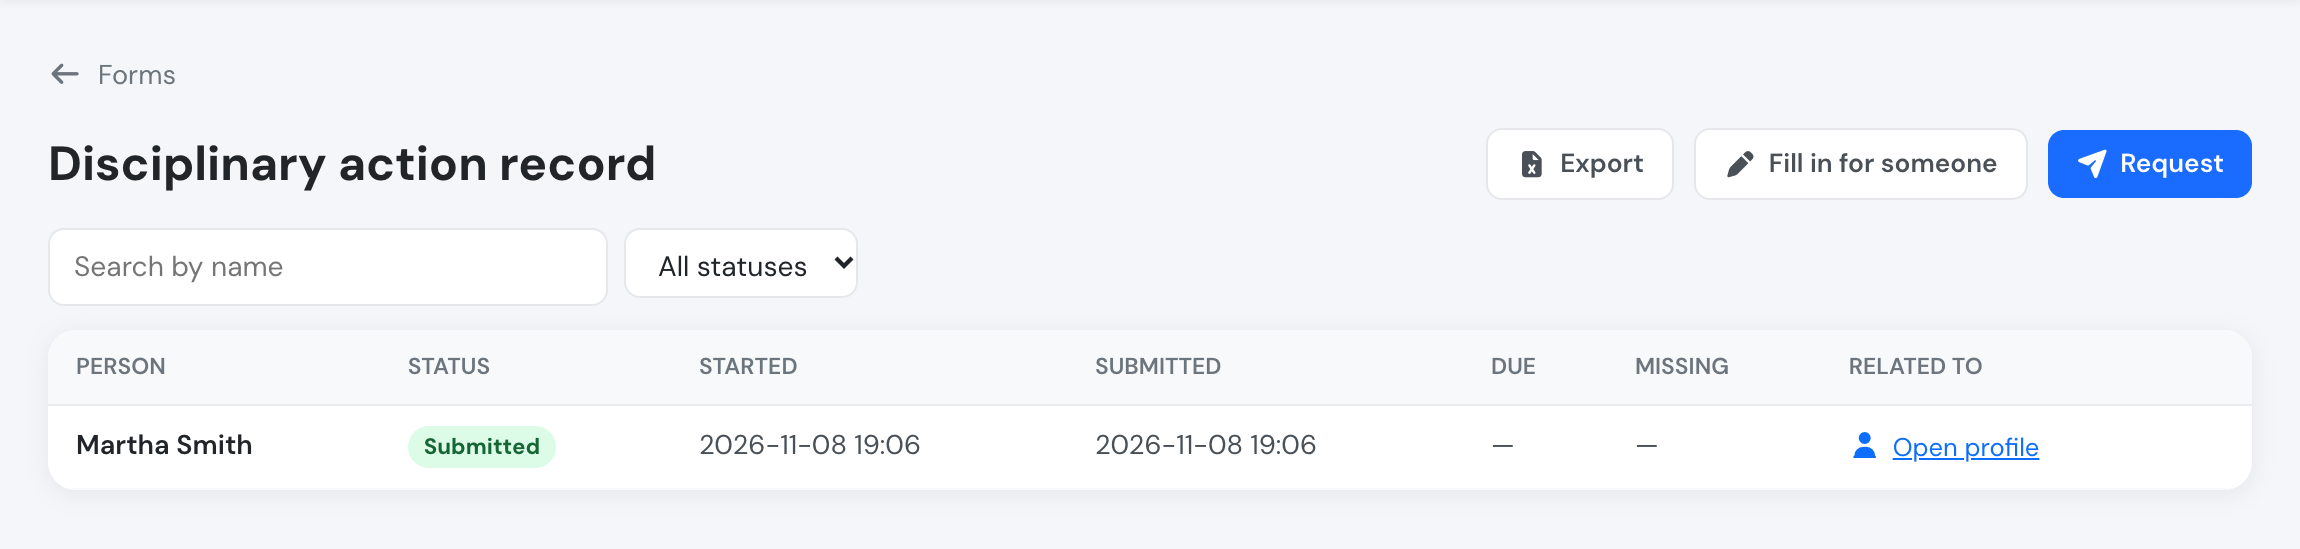
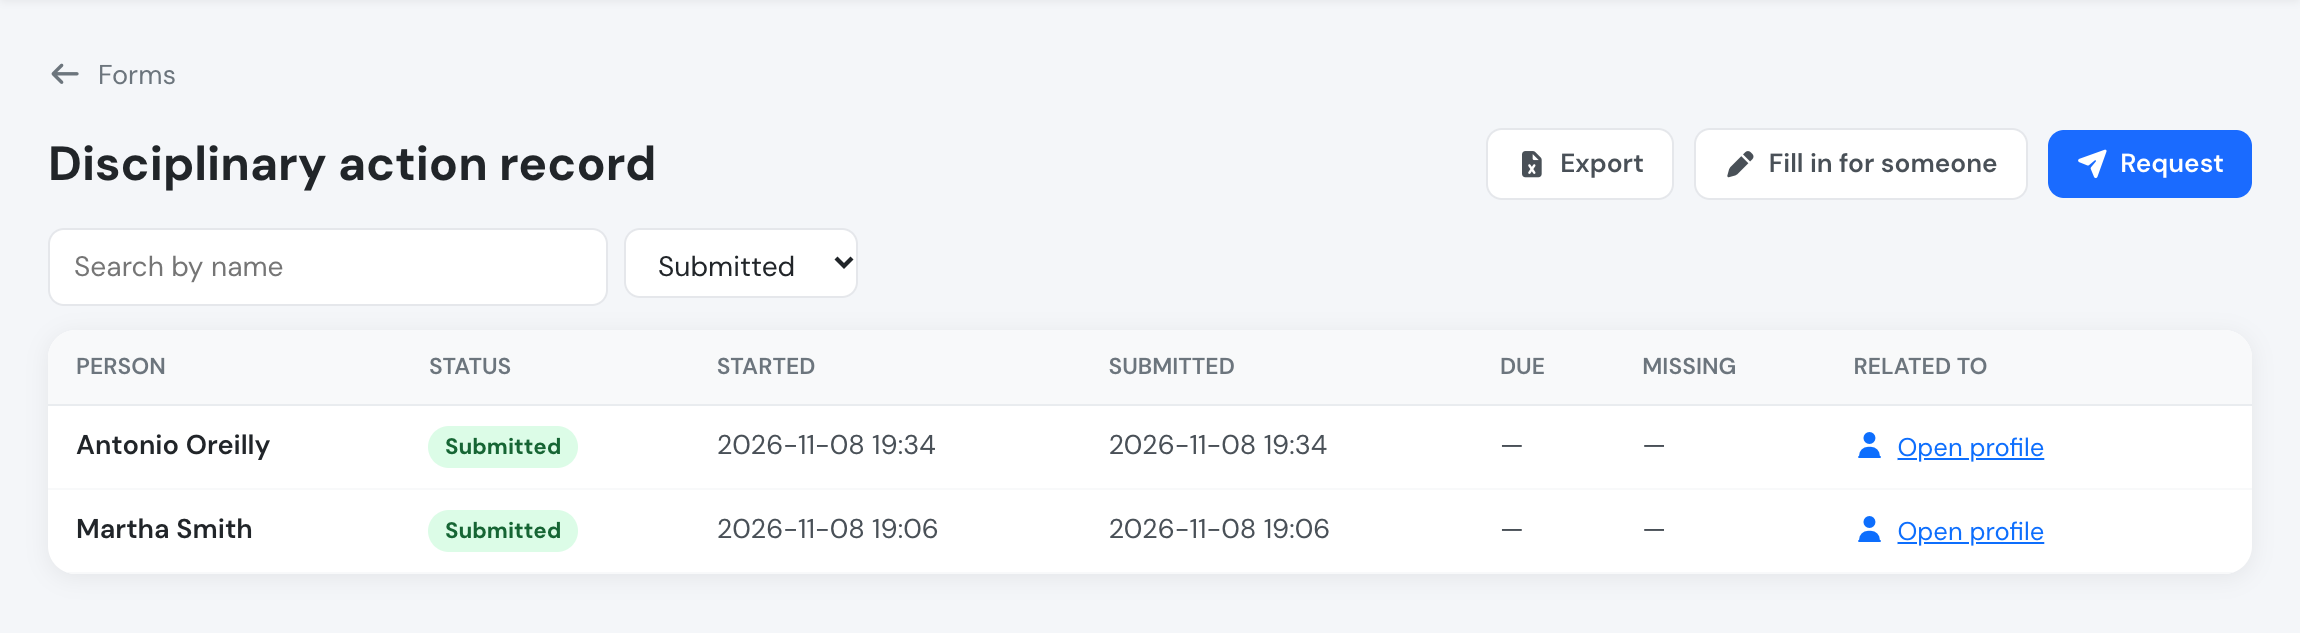
Custom forms updates

diff --git a/API/custom-forms.md b/API/custom-forms.md
@@ -47,11 +47,13 @@ Business refusals answer `200` with `{"result": false, "code": "<CODE>"}`.
 | Property | Notes |
 | --- | --- |
 | `key` | `^[a-z]_[a-z0-9_]{1,24}$`, unique across sections and fields |
-| `type` | `text_block`, `checkbox`, `yes_no`, `choice`, `text`, `textarea`, `number`, `date`, `datetime`, `photo`, `pdf` |
+| `type` | `text_block`, `checkbox`, `yes_no`, `choice`, `text`, `textarea`, `number`, `date`, `datetime`, `photo`, `pdf`, `person` |
 | `condition` | `null` or `{"field": "<earlier field key>", "equals": <value>}`. The source must be an earlier `checkbox` (`true`/`false`), `yes_no` (`"YES"`/`"NO"`) or `choice` (option key) field |
 | `filler_groups` | `null` (part of the main signature) or `user_group_id`s that sign this section separately |
 | `options` | `choice` only: `[{"key": "o_dual01", "label": "Dual"}]` |
 | `unit`, `hhmm` | `number` only |
+| `user_groups` | `person` only: `user_group_id`s whose active users may be chosen; `[]` = everyone in the company |
+| `is_subject` | `person` only: the chosen user becomes the copy's subject (`subject_user_id`). At most one per form, always `required`, never conditional (field or section, `SUBJECT_CONDITIONAL`), never in a separately signed section (`SUBJECT_SIGNED_SEPARATELY`); a second one is `SUBJECT_TWICE` |
 
 ### Answers
 
@@ -59,7 +61,7 @@ Business refusals answer `200` with `{"result": false, "code": "<CODE>"}`.
 { "f_ppl001": { "value": "YES", "files": ["<upload id>"] } }
 ```
 
-`value` by type: `checkbox` bool · `yes_no` `"YES"`/`"NO"` · `choice` option key · `text`/`textarea` string · `number` number · `date` `"YYYY-MM-DD"` · `datetime` unix seconds · `photo`/`pdf` `null` (the files are the answer). `files` holds upload ids filed with `model=FormResponse`, `foreign_key=<response id>` (see [Uploads](uploads.md)). Answers to hidden fields and unknown keys are dropped.
+`value` by type: `checkbox` bool · `yes_no` `"YES"`/`"NO"` · `choice` option key · `text`/`textarea` string · `number` number · `date` `"YYYY-MM-DD"` · `datetime` unix seconds · `person` user id · `photo`/`pdf` `null` (the files are the answer). `files` holds upload ids filed with `model=FormResponse`, `foreign_key=<response id>` (see [Uploads](uploads.md)). Answers to hidden fields and unknown keys are dropped.
 
 ### Signing units
 
@@ -136,7 +138,7 @@ Soft delete; refused with `HAS_RESPONSES` once anyone has a copy.
 
 <mark style="color:blue;">`GET`</mark> `/manager/custom_forms/responses/{formId}.json?status=&q=&page=`
 
-50 per page, newest change first. `q` searches the person's name. Each row: `id`, `status`, `origin`, `subject_user {id, name}`, `subject_label`, `subject_ref`, `answers`, `revision_id`, `created`, `submitted`, `due`, `missing [{key, label}]` (required answers still missing on that copy's own revision). Plus `paging {page, limit, count, pageCount}`.
+50 per page, newest change first. `q` searches the person's name. Each row: `id`, `status`, `origin`, `subject_user {id, name}`, `subject_label`, `subject_ref`, `answers`, `revision_id`, `created`, `submitted`, `due`, `missing [{key, label}]` (required answers still missing on that copy's own revision). Plus `people {user id: name}` for every user a `person` answer names, and `paging {page, limit, count, pageCount}`.
 
 ### Send a form to people
 
@@ -168,6 +170,25 @@ Records a `WAIVED` copy, which satisfies the enrolment gate like a submitted one
 
 `pending` (copies with a unit the caller still has to sign, due first), `available` (forms the caller may open at will), `submitted` (the caller's 50 latest finished copies).
 
+Each row: `id`, `form {id, name}`, `status`, `due`, `subject_label`, `created`, `modified`, `submitted`.
+
+### Latest forms (dashboard)
+
+<mark style="color:blue;">`GET`</mark> `/custom_forms/recent.json?limit=5`
+
+The latest copies the caller may see, most recently changed first. `limit` is 1–20 (default 5). Managers (`user_group_id ≤ 110`) get every copy in the company; anyone else gets the copies they started, signed or are about, and the copies of forms their group fills, views or signs a section of. Response: `{"responses": [row…]}`, each row as in My forms plus `to_fill` (`true` when a part of the copy is still the caller's to fill and sign).
+
+### Forms of a person
+
+<mark style="color:blue;">`GET`</mark> `/custom_forms/person/{userId}.json`
+
+The forms box on a person's page. The user must belong to the caller's company, otherwise `404`. Only the copies the caller may see are listed, newest change first, up to 50 in each list:
+
+* `filled`: copies the person filled in. That means they signed a part of it, or started it themselves. A copy that was only requested from them counts once they sign it.
+* `named`: copies with a `person` field whose answer is that person, such as the person the form is about or a witness. Each row adds `fields [{key, label, is_subject}]`, the person fields that name them.
+
+Rows are shaped as in My forms.
+
 ### Start a response
 
 <mark style="color:green;">`POST`</mark> `/custom_forms/start/{formId}.json`
@@ -198,6 +219,7 @@ The bundle:
 
 | Key | Content |
 | --- | --- |
+| `people` | per `person` field key: `[{id, name}]` the caller may choose (only while they can still fill that field), plus whoever it names now |
 | `response` | `id`, `status`, `origin`, subject, `subject_label`, `subject_ref`, `answers`, `due`, `created`, `submitted`, `submitted_by` |
 | `form` | `id`, `name`, `description`, `require_password`, `retention_months` |
 | `revision` | the revision the copy is pinned to, with its `schema` and labels |
@@ -222,7 +244,9 @@ The bundle:
 
 <mark style="color:green;">`POST`</mark> `/custom_forms/save/{id}.json` — `{"answers": {…}}`
 
-Only the fields of the caller's unsigned units are written; a field of those units missing from `answers` is cleared. Refusals: `LOCKED`, `NOT_YOURS`, `SIGNED_UNIT_CHANGED`.
+Only the fields of the caller's unsigned units are written; a field of those units missing from `answers` is cleared. Refusals: `LOCKED`, `NOT_YOURS`, `SIGNED_UNIT_CHANGED`, `PERSON_NOT_ALLOWED` (a `person` value outside the field's list; a value the copy already held is kept even if that user has since left the list).
+
+On a copy about a person (`subject_model` `User`), a new value in the `is_subject` field moves the copy to that person (`subject_id`, `subject_user_id`). Allowed only to callers who may start a copy about them (managers and the form's `FILL` groups); anyone else gets `NOT_YOURS`. Copies about a flight, booking or course keep their subject. A copy started about another person, by start or by request, arrives with that field already filled.
 
 ### Sign a unit
 
@@ -287,9 +311,12 @@ Every `PUBLISHED` form of the company with a `PREFLIGHT`, `FIRST_FLIGHT_OF_DAY`,
   "form": { "id": "…", "name": "…", "description": "…", "fill_mode": "SUBJECT", "fill_seat": "PIC", "require_password": false },
   "revision": { "id": "…", "schema": { … }, … },
   "groups": { "OPEN": [], "FILL": [], "VIEW": [] },
-  "triggers": [ { "id": "…", "type": "POSTFLIGHT", "mode": "MANDATORY", "scope": { "aircraft_ids": ["12"] } } ]
+  "triggers": [ { "id": "…", "type": "POSTFLIGHT", "mode": "MANDATORY", "scope": { "aircraft_ids": ["12"] } } ],
+  "people": { "f_wit001": [ { "id": 178, "name": "Antonio Oreilly" } ] }
 } ] }
 ```
+
+`people` lists, per `person` field, who it may name, so the field can be filled without signal.
 
 A copy filled offline is replayed after its flight is created:
 
@@ -324,7 +351,7 @@ When a course has a **MANDATORY** `ENROLMENT` form:
 | --- | --- |
 | Managers (`user_group_id ≤ 110`) | see every copy; fill the `form` unit on anyone's behalf; reopen; waive; delete any `DRAFT` |
 | The creator of a copy | delete it while it is a `DRAFT` with no signed unit |
-| The person the copy is about | see it; fill the `form` unit when `fill_mode` is `SUBJECT` or `SUBJECT_OR_GROUPS` |
+| The person the copy is about | see it once it is `SUBMITTED`, `SKIPPED` or `WAIVED`; while it is `REQUESTED` or `DRAFT`, only when `fill_mode` is `SUBJECT` or `SUBJECT_OR_GROUPS` (a `GROUPS` copy staff fill about them, such as a disciplinary record, returns `404` to them until it is signed); fill the `form` unit when `fill_mode` is `SUBJECT` or `SUBJECT_OR_GROUPS` |
 | `FILL` groups | see copies of the form; start one about anyone; fill the `form` unit when `fill_mode` is `GROUPS` or `SUBJECT_OR_GROUPS` |
 | A section's `filler_groups` | see the copy; fill and sign **only** that section (managers cannot sign it for them) |
 | `VIEW` groups, signers, the creator | see it |

diff --git a/company-management/custom-forms.md b/company-management/custom-forms.md
@@ -18,7 +18,7 @@ Custom forms are available on the **Premium** and **Unlimited** plans. If your c
 | --- | --- |
 | Build, publish, archive and delete forms; see every response; send forms to people; reopen a signed copy; delete any draft copy; waive a mandatory form | Flylogs Administrator, Company Administrator, Operations Manager, Compliance & Safety Manager (user groups 1, 100, 105, 110) |
 | Fill in and sign a form | Whoever the form says fills it in (see below) |
-| See a filled copy | Managers, the person it is about, whoever filled or signed it, and the user groups you add as viewers |
+| See a filled copy | Managers, the person it is about, whoever filled or signed it, and the user groups you add as viewers. When the form is filled by *selected user groups*, the person it is about sees it only once every part is signed |
 
 Managers find **Forms** under **Home** in the main menu. Every user finds the forms they have to fill under **My forms**, in the menu that opens from their name at the top right.
 
@@ -35,7 +35,7 @@ The **Start from a template** panel, on the right of **Home → Forms**, holds r
 | Post-flight report | Fuel uplifted, technical issues and occurrences to report to safety | Post-flight, skippable, filled by the PIC |
 | Solo flight briefing | Weather and NOTAMs, aircraft, authorised exercise and limits, student fit to fly | Before a solo flight, mandatory, filled by the instructor / supervisor |
 | Course application | Personal details, licence held, total flight time, medical certificate and a declaration | Course enrolment, skippable, filled by the student or on their behalf |
-| Disciplinary action record | What happened, the action taken (verbal, written or final warning, suspension), corrective action, review date and the person's statement | Not attached to anything; filled by managers and signed with their password |
+| Disciplinary action record | The person concerned (a person field that sets who the record is about), what happened, the action taken (verbal, written or final warning, suspension), corrective action, review date and the person's statement | Not attached to anything; filled by managers and signed with their password |
 
 The template's text appears in your language. Once saved, the form is yours like any other: the template is not linked to it, and later changes to the templates never touch your forms.
 
@@ -63,12 +63,27 @@ Open **Home → Forms → New form** (or start from a template), give it a name,
 | Date and time | A date and time, in your company's time zone and format |
 | Photo | One or more photos (the phone camera opens on mobile) |
 | PDF | One or more PDF files |
+| Person | Someone from your company, chosen from a list (see below) |
 
 Each field can be **required** or optional. A field's label can be a whole paragraph, so regulation wording can be quoted word for word.
 
 Tick **Allow evidence files** on a field to let people attach a photo or PDF next to their answer — for example a licence scan next to "Holds a PPL(A)? Yes". The evidence belongs to that row, not to the whole form.
 
 There are no calculated fields: a figure such as the minimum training hours after credits is typed by the person responsible, and Flylogs keeps exactly what they typed.
+
+### Person fields and who the form is about
+
+A **Person** field is a dropdown of your company's active users. Under **Who appears in the list**, pick the user groups it offers (for example only students, or only instructors); leave it empty to list everyone.
+
+Tick **This is who the form is about** on a person field when the form is a record about someone, such as a disciplinary record or an assessment. The person chosen there becomes the person the copy is about: they appear in the **Person** column of the responses, and they can read the copy under **My forms** once it is signed. That field is always required and always shown, and a form can have only one. Only managers and the groups that fill the form in can choose someone other than themselves.
+
+<figure><img src="../.gitbook/assets/custom-forms-person-field.png" alt="Person concerned field in the builder, with the user groups listed and This is who the form is about ticked"><figcaption><p>A person field set as the person the form is about.</p></figcaption></figure>
+
+Whoever fills the form picks the person from the list, typing part of the name to find them:
+
+<figure><img src="../.gitbook/assets/custom-forms-person-fill.png" alt="Person concerned dropdown filtered to one pilot while filling in a disciplinary record"><figcaption><p>Choosing the person while filling in the form.</p></figcaption></figure>
+
+Other person fields (a witness, the other crew member) just record who was chosen.
 
 ### Showing a field only when needed
 
@@ -117,7 +132,10 @@ From **Forms → Responses → Request**, choose people and/or pilot groups, an 
 
 ## Filling in a form for someone
 
-Some forms are about a person but are filled in by you, not by them — a disciplinary record, an assessment, an interview note. From **Forms → Responses**, press **Fill in for someone**, choose the person and press **Start**. The copy opens for you to fill in and sign.
+Some forms are about a person but are filled in by you, not by them — a disciplinary record, an assessment, an interview note. There are two ways to start one:
+
+* open the form from **My forms → Available** and choose the person in its *who the form is about* field (see [Person fields](#person-fields-and-who-the-form-is-about)), or
+* from **Forms → Responses**, press **Fill in for someone**, choose the person and press **Start**. The copy opens for you to fill in and sign, with its *who the form is about* field already set to that person.
 
 <figure><img src="../.gitbook/assets/custom-forms-fill-for.png" alt="Fill in for someone window with a person picker"><figcaption><p>Start a copy about one person and fill it in yourself.</p></figcaption></figure>
 
@@ -202,6 +220,28 @@ Who gets the link: flights and bookings link for everyone who can see the copy, 
 | Submitted | Every part signed |
 | Skipped | A skippable pre-entry form was skipped |
 | Waived | A manager waived a mandatory form, with a reason |
+
+## Forms on a person's page
+
+In **Flight Crew**, open a person and go to the **Manager Area** tab. The **Forms** box has two lists:
+
+* **Filled in by this person**: copies they signed a part of, or started themselves. A form only sent to them appears here once they sign it.
+* **Forms naming this person**: copies where a *Person* field names them, for example a disciplinary record about them or a report that lists them as a witness. Under each copy you see which field names them.
+
+<figure><img src="../.gitbook/assets/custom-forms-pilot-profile.png" alt="Forms box in the Manager Area tab of a pilot, with a disciplinary record naming them as the person concerned"><figcaption><p>A disciplinary record that names this pilot as the person concerned.</p></figcaption></figure>
+
+Click a copy to open it. The box lists only the copies you are allowed to see: managers (user groups 1, 100, 105 and 110) see them all, and other groups with access to the Manager Area see the copies their own access lets them open. The box appears only on plans that include custom forms.
+
+## Forms on the dashboard
+
+Every dashboard has a **Forms** widget with the five copies changed most recently. Click one to open it.
+
+* Managers (user groups 1, 100, 105 and 110) see the latest copies from the whole company. **View more** opens **Home → Forms**.
+* Everyone else sees the copies they filled in, signed or are about, plus copies of forms their group fills in or can view. A copy that still has a part for them to fill in is marked **To fill in**. **View more** opens **My forms**.
+
+<figure><img src="../.gitbook/assets/custom-forms-dashboard-widget.png" alt="Forms widget on a manager's dashboard listing the latest submitted copies"><figcaption><p>The Forms widget on a manager's dashboard.</p></figcaption></figure>
+
+The widget is hidden when there is nothing to show, and on plans that do not include custom forms.
 
 ## Retention
 

diff --git a/whats-new/form-templates.md b/whats-new/form-templates.md
@@ -1,8 +1,8 @@
-# New: form templates and filling in a form for someone
+# New: form templates, person fields and filling in for someone
 
 **November 2026** · Company management
 
-Custom forms now come with ready-made templates. One click opens a complete form in the builder, ready to review and publish. You can also start a copy about a person and fill it in yourself, for records such as a disciplinary action.
+Custom forms now come with ready-made templates: one click opens a complete form in the builder, ready to review and publish. A new Person field lets a form say who it is about, and you can start a copy about a person and fill it in yourself, for records such as a disciplinary action.
 
 ***
 
@@ -13,6 +13,14 @@ Custom forms now come with ready-made templates. One click opens a complete form
 <figure><img src="../.gitbook/assets/custom-forms-templates.png" alt="Forms page with the Start from a template panel"><figcaption><p>The templates sit next to your forms.</p></figcaption></figure>
 
 Six templates are available: Daily inspection, Fitness to fly (IMSAFE), Post-flight report, Solo flight briefing, Course application and Disciplinary action record. Their text appears in your language, and once saved the form is yours to change like any other.
+
+***
+
+### Person fields
+
+A new **Person** field type lists your company's users, filtered by user group. Tick **This is who the form is about** and the person chosen becomes the person the copy is about: they show in the responses list and can read the signed copy under **My forms**. The Disciplinary action record template starts with one, *Person concerned*.
+
+<figure><img src="../.gitbook/assets/custom-forms-person-fill.png" alt="Choosing the person concerned in a disciplinary record"><figcaption><p>Choosing who the record is about.</p></figcaption></figure>
 
 ***
 

diff --git a/whats-new/README.md b/whats-new/README.md
@@ -24,8 +24,8 @@ Everything we have added or fixed in Flylogs, newest first. Each entry links to 
 
 ## November 2026
 
-**[Form templates and filling in for someone](form-templates.md)** · Company management\
-Start a form from a ready-made template (daily inspection, IMSAFE, post-flight report, solo briefing, course application, disciplinary record) and fill in a copy about a person yourself.\
+**[Form templates and person fields](form-templates.md)** · Company management\
+Start a form from a ready-made template (daily inspection, IMSAFE, post-flight report, solo briefing, course application, disciplinary record), pick people with the new Person field, and fill in a copy about someone yourself.\
 [Manual →](../company-management/custom-forms.md#starting-from-a-template)
 
 **[See what your aircraft hours follow](hours-clock-and-ignored-readings.md)** · Fleet & Maintenance\

diff --git a/SUMMARY.md b/SUMMARY.md
@@ -5,7 +5,7 @@
 ## What's new
 
 * [Latest updates](whats-new/README.md)
-  * [Form templates](whats-new/form-templates.md)
+  * [Form templates and person fields](whats-new/form-templates.md)
   * [See what your aircraft hours follow](whats-new/hours-clock-and-ignored-readings.md)
   * [Crew document checks by flight type](whats-new/crew-document-checks-by-flight-type.md)
   * [Auto Pilot criteria and supervisors](whats-new/auto-pilot-criteria.md)
